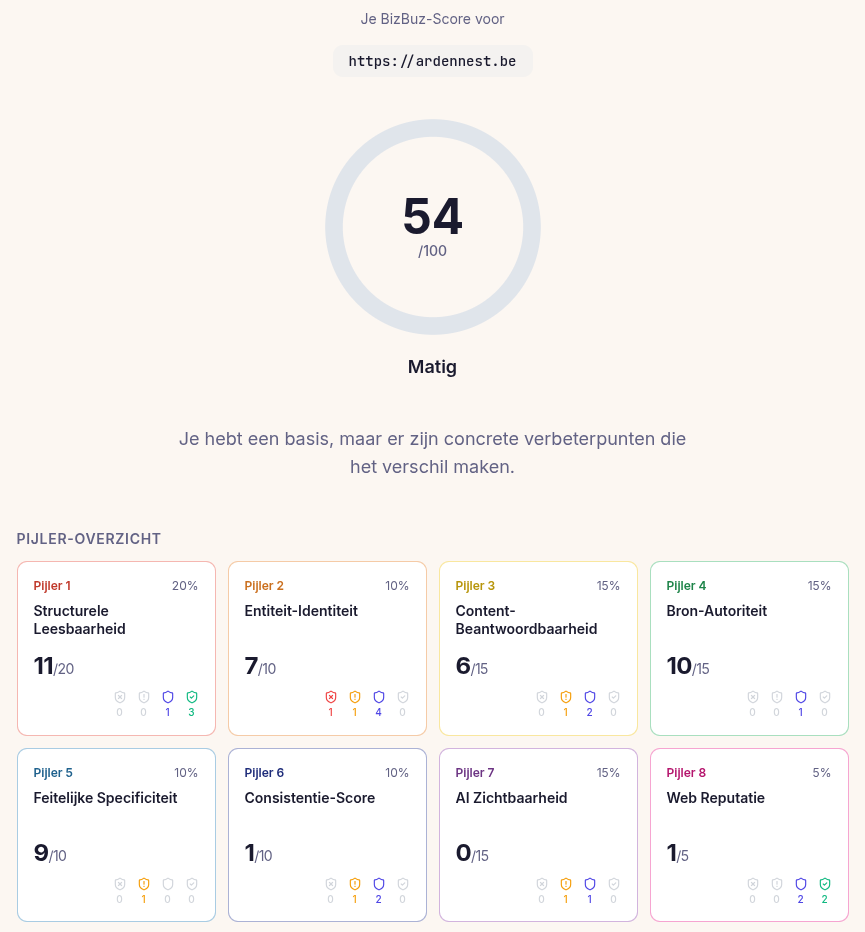
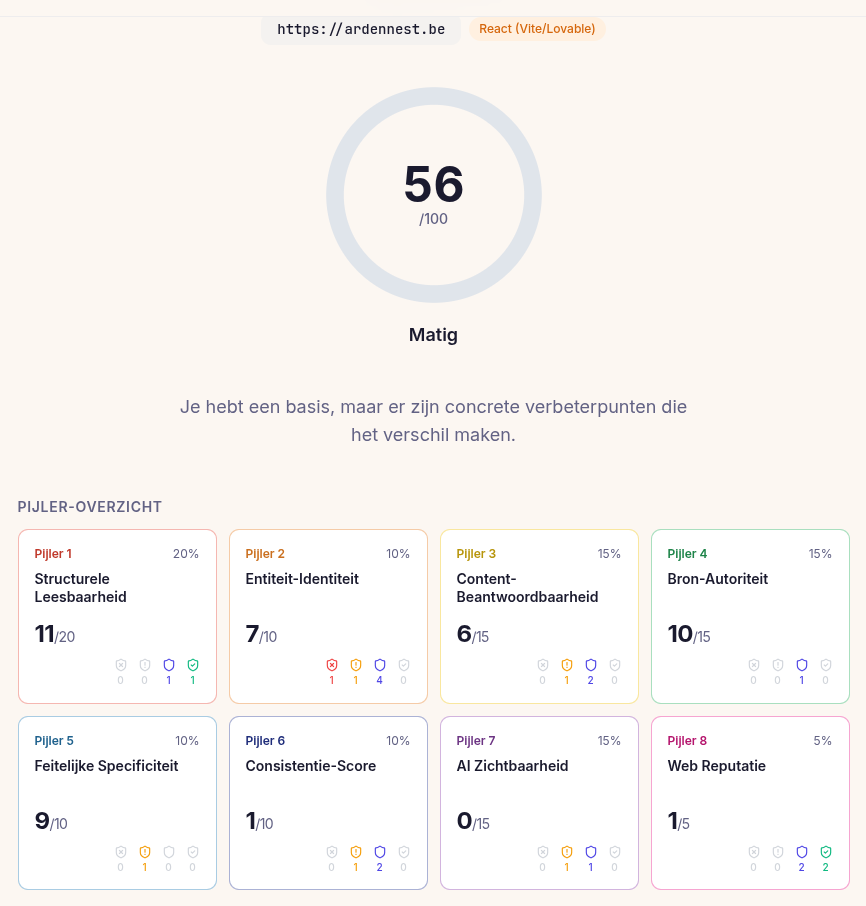
Changes

diff --git a/src/components/homeowners/BizBuzScoreTracker.tsx b/src/components/homeowners/BizBuzScoreTracker.tsx
@@ -12,6 +12,7 @@ interface ScoreEntry {
 
 const scores: ScoreEntry[] = [
   { date: "19 mrt 2026", score: 53 },
+  { date: "29 mrt 2026", score: 56 },
   // Add new scores here — the grid handles everything automatically
 ];
 
